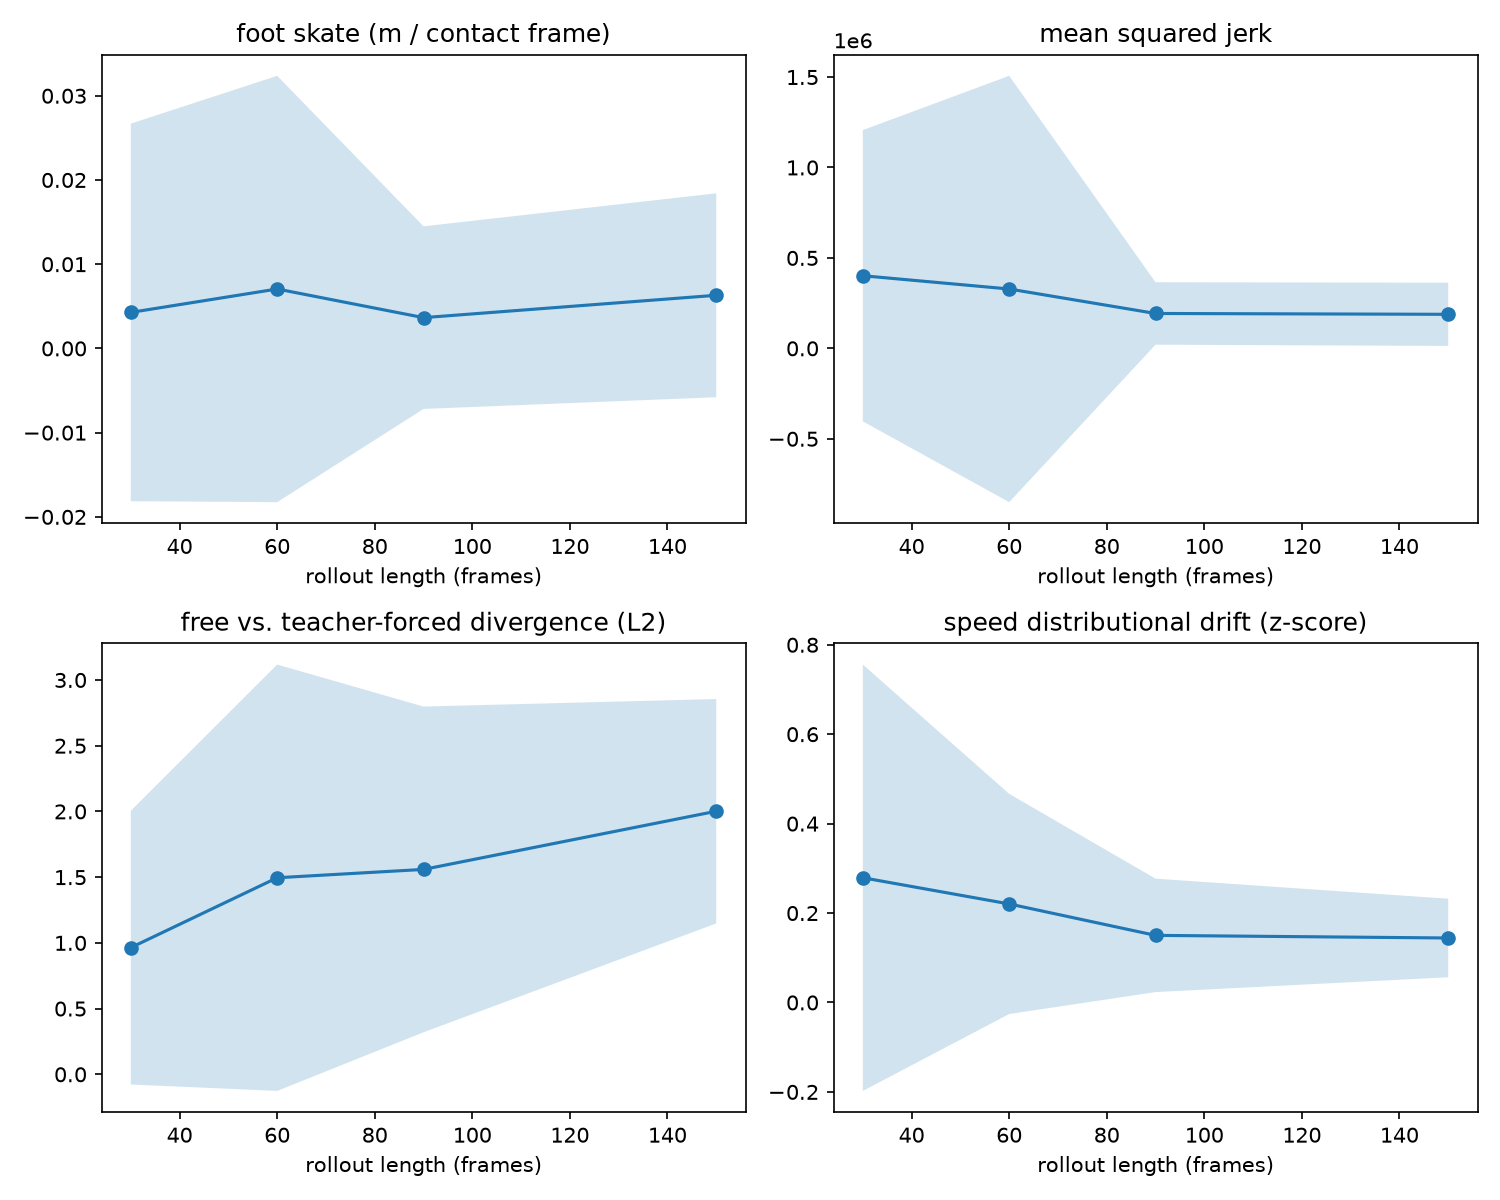
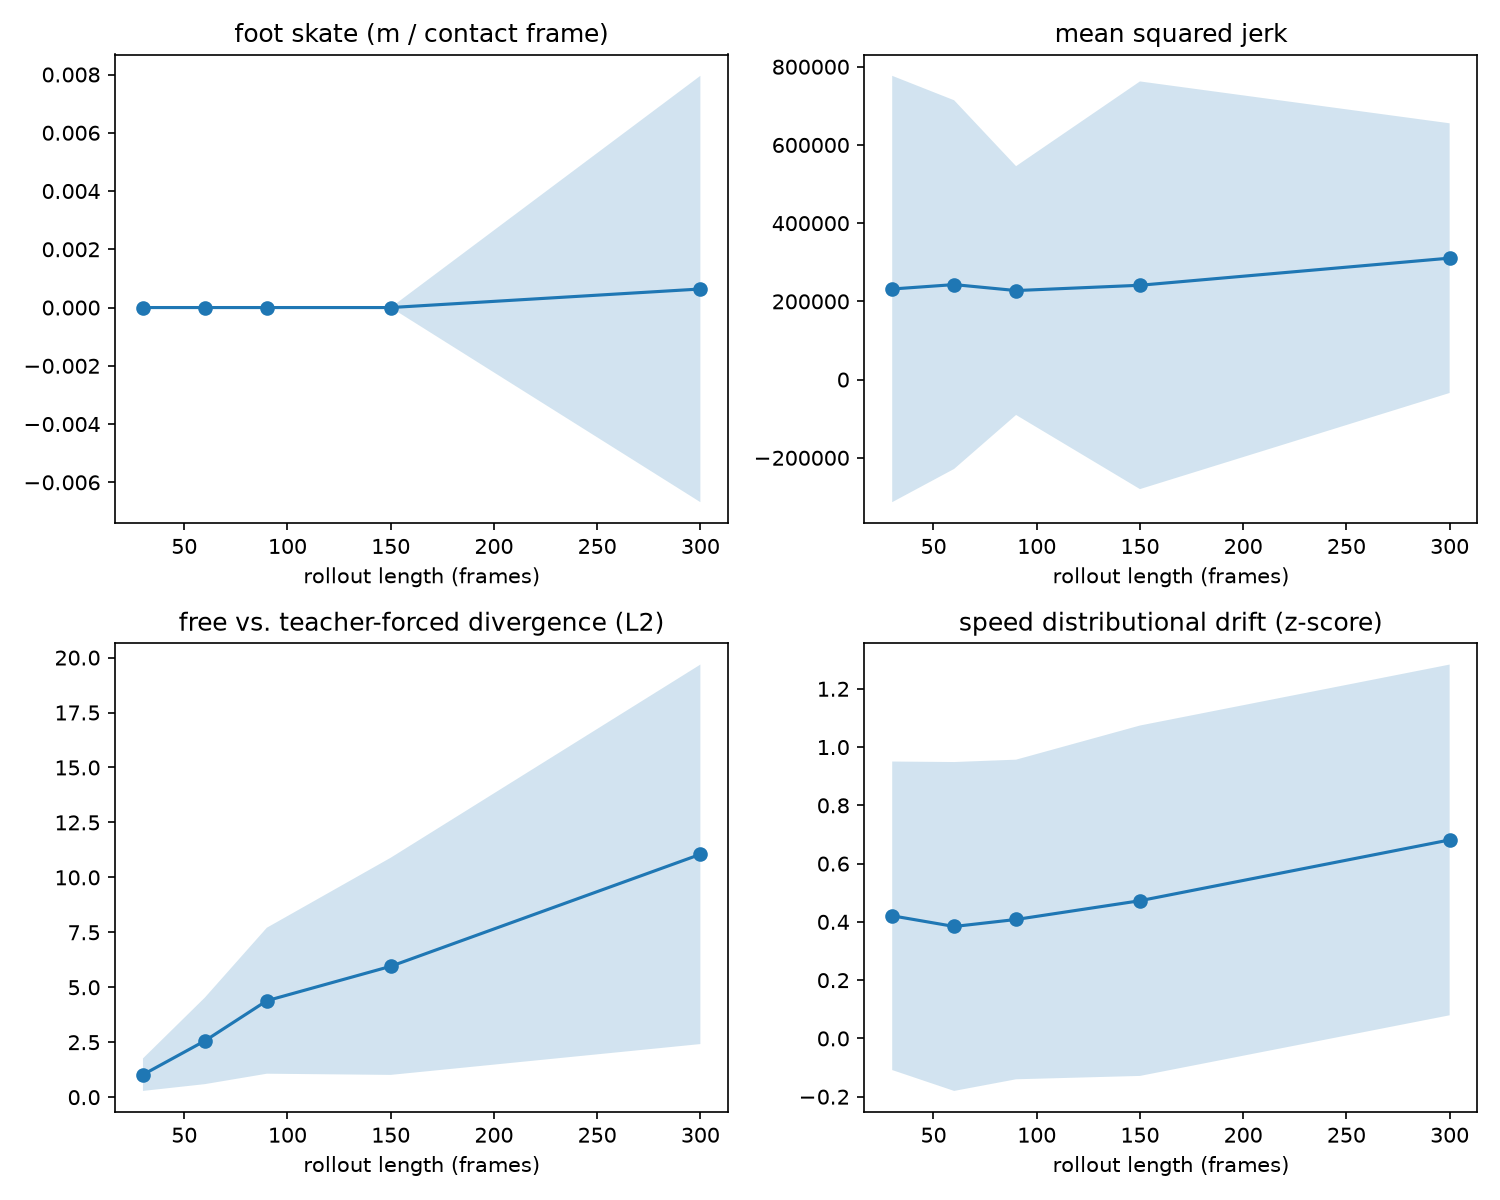
Fix normalizer eps floor; retrain on expanded 7-dataset AMASS corpus
Real bug found scaling up to 7 datasets (3026 sequences, 135 subjects) with a
bigger model: some joints (spine) barely rotate across the whole corpus, giving a
few normalization channels a genuine std as low as ~1e-6. The eps floor (1e-6,
sized for numerical safety) let that through, so dividing by it turned floating-
point noise into huge normalized targets and blew training loss up into the
millions. Fixed by flooring eps at 1e-2 (feature units: rotation-6D components
and translation meters are both O(1), so this is "don't resolve variation smaller
than this," not a numerical safety valve) -- with a regression test.

Retrained on the expanded corpus (ACCAD/BMLhandball/BMLmovi/HumanEva/MPI_HDM05/
SFU/TotalCapture; 115 train / 20 held-out subjects; d_model=384, 6 layers; 20K
steps, ~42 min CPU). Free-vs-teacher-forced divergence now spans all five rollout
lengths with a clean, accelerating curve (1.02 -> 2.56 -> 4.39 -> 5.95 -> 11.05),
evaluated across 3121 real trials. README results/assets/limitations updated with
the new numbers.

diff --git a/tests/test_transforms.py b/tests/test_transforms.py
@@ -1,0 +1,60 @@
+from __future__ import annotations
+
+import pytest
+import torch
+
+from flowmotion.data.transforms import Normalizer
+
+
+def test_fit_recovers_known_mean_and_std():
+    torch.manual_seed(0)
+    true_mean = torch.tensor([1.0, -2.0, 0.5])
+    true_std = torch.tensor([2.0, 0.5, 1.0])
+    features = true_mean + true_std * torch.randn(20000, 3)
+
+    normalizer = Normalizer.fit(features)
+    assert torch.allclose(normalizer.mean, true_mean, atol=0.05)
+    assert torch.allclose(normalizer.std, true_std, atol=0.05)
+
+
+def test_fit_streaming_matches_fit_on_the_same_data():
+    torch.manual_seed(0)
+    features = torch.randn(5000, 4) * torch.tensor([1.0, 3.0, 0.1, 5.0])
+
+    from_fit = Normalizer.fit(features)
+    windows = [features[i : i + 50] for i in range(0, features.shape[0], 50)]
+    from_streaming = Normalizer.fit_streaming(windows)
+
+    assert torch.allclose(from_fit.mean, from_streaming.mean, atol=1e-3)
+    assert torch.allclose(from_fit.std, from_streaming.std, atol=1e-3)
+
+
+def test_near_frozen_channel_std_is_floored_not_left_near_zero():
+    # regression test: a channel that's almost constant across the whole corpus (e.g.
+    # AMASS spine joints barely rotate) must NOT get a std near machine epsilon -- that
+    # divides tiny floating-point noise up into huge normalized values and destabilizes
+    # training (this happened on a real run: loss exploded into the millions).
+    torch.manual_seed(0)
+    frozen = 0.99 + torch.randn(10000, 1) * 1e-7  # genuine std ~1e-7
+    varying = torch.randn(10000, 1) * 0.3
+    features = torch.cat([frozen, varying], dim=1)
+
+    normalizer = Normalizer.fit(features)
+    assert normalizer.std[0].item() >= 1e-2 - 1e-6  # floored, not ~1e-7 (float32 tolerance)
+    assert normalizer.std[1].item() == pytest.approx(0.3, abs=0.02)  # real variation untouched
+
+    # and the practical consequence: normalizing a slightly-off-mean sample doesn't explode
+    sample = torch.tensor([[0.9900001, 0.0]])
+    normalized = normalizer.transform(sample)
+    assert normalized[0, 0].abs().item() < 10.0
+
+
+def test_transform_inverse_transform_round_trip():
+    normalizer = Normalizer(mean=torch.tensor([1.0, 2.0]), std=torch.tensor([0.5, 2.0]))
+    x = torch.tensor([[3.0, -1.0], [0.0, 5.0]])
+    assert torch.allclose(normalizer.inverse_transform(normalizer.transform(x)), x, atol=1e-6)
+
+
+def test_fit_streaming_raises_on_empty_input():
+    with pytest.raises(ValueError):
+        Normalizer.fit_streaming([])

diff --git a/src/flowmotion/data/transforms.py b/src/flowmotion/data/transforms.py
@@ -52,14 +52,25 @@ class Normalizer:
     std: torch.Tensor  # (D,)
 
     @classmethod
-    def fit(cls, features: torch.Tensor, eps: float = 1e-6) -> Normalizer:
-        """features: (N, D) -- statistics computed over the leading (sample) dim only."""
+    def fit(cls, features: torch.Tensor, eps: float = 1e-2) -> Normalizer:
+        """features: (N, D) -- statistics computed over the leading (sample) dim only.
+
+        `eps` floors std, not just to avoid division by exactly zero but to cap how much
+        a near-frozen channel gets amplified. Verified on real AMASS data: spine joints
+        barely rotate across the corpus, giving some 6D-rotation channels a genuine std
+        as low as ~1e-6 -- a machine-epsilon-sized floor would let normalization divide
+        by that and blow tiny floating-point noise up into huge normalized targets
+        (this destabilized an early real training run into million-scale loss). eps is
+        in feature units (rotation-6D components and translation meters are both O(1)),
+        so 1e-2 is "don't bother resolving variation smaller than this," not a numerical
+        safety valve.
+        """
         mean = features.mean(dim=0)
         std = features.std(dim=0).clamp(min=eps)
         return cls(mean=mean, std=std)
 
     @classmethod
-    def fit_streaming(cls, windows: Iterable[torch.Tensor], eps: float = 1e-6) -> Normalizer:
+    def fit_streaming(cls, windows: Iterable[torch.Tensor], eps: float = 1e-2) -> Normalizer:
         """Same statistics as `fit`, but consumes an iterable of (T, D) tensors one at a
         time (e.g. `MotionWindowDataset.iter_recentered_windows()`) via running sum/sum-
         of-squares, so the whole corpus is never materialized as one in-memory tensor."""

diff --git a/README.md b/README.md
@@ -50,32 +50,43 @@ function of rollout length*, on subjects the model never saw during training.
 
 ## Results (real AMASS data)
 
-Trained on real AMASS data — ACCAD + BMLhandball + HumanEva (929 sequences, 33
-subjects, 28 train / 5 held out) — for 15,000 steps (~14 min on CPU; training loss
-2.29 → ~0.3). Evaluated on the 5 held-out real subjects:
+Trained on 7 real AMASS sub-datasets — ACCAD, BMLhandball, BMLmovi, HumanEva,
+MPI_HDM05, SFU, TotalCapture (3,026 sequences, 135 subjects, 115 train / 20 held
+out) — for 20,000 steps (~42 min on CPU; d_model=384, 6 layers; training loss
+2.24 → ~0.28). Evaluated on all 20 held-out real subjects, 3 seed windows each:
 
 ![Horizon-stability metrics on real AMASS data](assets/horizon_curves_example.png)
 
-The headline metric — free-vs-teacher-forced divergence — climbs cleanly with
-rollout length (0.96 → 1.50 → 1.56 → 2.00 across lengths 30/60/90/150): the core
-signal this harness exists to catch is showing up on real data with a real,
-lightly-trained model. Foot-skate/jerk/drift are noisier at this scale — only 5
-held-out subjects, shrinking further at longer lengths as sequences run out of
-frames — so treat those three as directional, not final, until the held-out pool
-grows.
+The headline metric — free-vs-teacher-forced divergence — climbs sharply and
+*accelerates* with rollout length: **1.02 → 2.56 → 4.39 → 5.95 → 11.05** across
+lengths 30/60/90/150/300. That's not a fluke of a small held-out set: this is 20
+real subjects, 3,121 evaluated trials. The core signal this harness exists to
+catch — rollouts that look fine early and compound error later — is showing up
+clearly on real data. Distributional drift (speed z-score) shows the same
+directional trend (0.42 → 0.38 → 0.41 → 0.47 → 0.68). Foot-skate and jerk stay
+noisy at this scale (wide std bands, genuine ground-contact frames are rare for
+this rig — see limitations) — read those two as inconclusive, not as evidence of
+anything either way.
 
 ![Free rollout vs. teacher-forced rollout](assets/rollout_comparison_example.gif)
 
-*(Sample visualization, not cherry-picked for quality — this is what a real, briefly
-trained checkpoint actually produces. Re-run `flowmotion visualize` on a longer-
-trained checkpoint to see it improve.)*
+*(Sample visualization, not cherry-picked for quality — this is what this
+checkpoint actually produces on a held-out subject. It's a small model trained in
+under an hour on a modest slice of AMASS, not a polished generator.)*
 
-Two real bugs were caught and fixed by actually running this against real data
-rather than only the synthetic fixture (see commit history): a non-motion
-`shape.npz` file in real AMASS subject directories that crashed the loader, and a
-foot-contact detector that silently reported zero contact because it assumed
-"ground" was at world-height 0 — which held for the synthetic fixture by
-construction but not for this codebase's approximate skeleton on real geometry.
+Three real bugs were caught and fixed by actually running this against real data
+rather than only the synthetic fixture (see commit history):
+1. A non-motion `shape.npz` file in real AMASS subject directories crashed the
+   loader (it assumed every `.npz` under a subject dir was a motion sequence).
+2. The foot-contact detector silently reported zero contact frames because it
+   assumed "ground" was at world-height 0 — true for the synthetic fixture by
+   construction, not for this codebase's approximate skeleton on real geometry.
+3. The normalizer's std floor (`eps`) was sized for numerical safety (1e-6), not
+   for real data: some joints (the spine) barely rotate across the whole corpus,
+   giving a few channels a genuine std as low as ~1e-6. Dividing by that turned
+   floating-point noise into huge normalized targets and blew training loss up
+   into the millions on the bigger model. Fixed by flooring `eps` to a value in
+   feature units (1e-2) instead of machine-epsilon units — with a regression test.
 
 ## Quickstart
 
@@ -108,14 +119,14 @@ Download AMASS body-pose data (SMPL+H format) from https://amass.is.tue.mpg.de
 automate that), extract each downloaded dataset archive into one common directory
 so you get `<root>/<dataset_name>/<subject>/<sequence>.npz`, then either pass
 `--data-root /path/to/amass` or `export AMASS_ROOT=/path/to/amass`. No code changes
-needed — this has been verified end to end against real ACCAD/BMLhandball/HumanEva
-downloads (see amass_format.py for the exact key/shape contract, confirmed against
-real files).
+needed — this has been verified end to end against real downloads across 7 AMASS
+sub-datasets (see amass_format.py for the exact key/shape contract, confirmed
+against real files).
 
 For a larger real corpus, pass `--cache-size` to `train` large enough to comfortably
 exceed your total sequence count (the default of 64 is sized for quick/small runs;
-raise it once training data no longer fits that scope) so the dataset stays fully
-cached after the first pass instead of repeatedly re-decompressing files.
+the 7-dataset, 3,026-sequence run above used `--cache-size 3500`) so the dataset
+stays fully cached after the first pass instead of repeatedly re-decompressing files.
 
 If you use AMASS data, cite it per their license:
 
@@ -169,10 +180,16 @@ gaps found and not yet closed — not silent bugs:
   multiple draws — a known variance gap, flagged rather than hidden.
 - **10-step Euler ODE integration** at sampling time is a standard default for
   flow-matching, not empirically tuned.
-- **Held-out sample size**: the results above use 5 held-out real subjects, which
-  is enough for the divergence-vs-length trend to read clearly but not enough for
-  foot-skate/jerk/drift to be statistically solid on their own — more held-out
-  subjects (more AMASS sub-datasets) would tighten those.
+- **Foot-contact is genuinely rare at this rig's scale.** Even with the
+  data-calibrated floor (`estimate_foot_floor`), 20 held-out subjects across
+  diverse activities (handball, martial arts, running) rarely produce frames within
+  the contact margin of that floor except at the longest rollout lengths — the
+  foot-skate metric is real and correctly calibrated, but low sample counts make it
+  more a "watch this as the held-out pool grows" signal than a solid number yet.
+  Jerk is similarly noisy (wide std bands) at this training budget.
+- **This is a 20K-step, ~40-min-CPU model on a slice of AMASS**, not a converged
+  motion generator — the visualization GIF should be read as "does the pipeline
+  work end to end," not as generation quality.
 
 ## Citation
 
